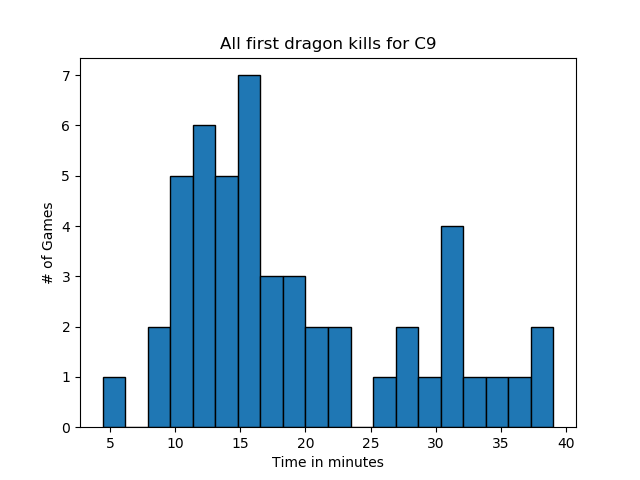
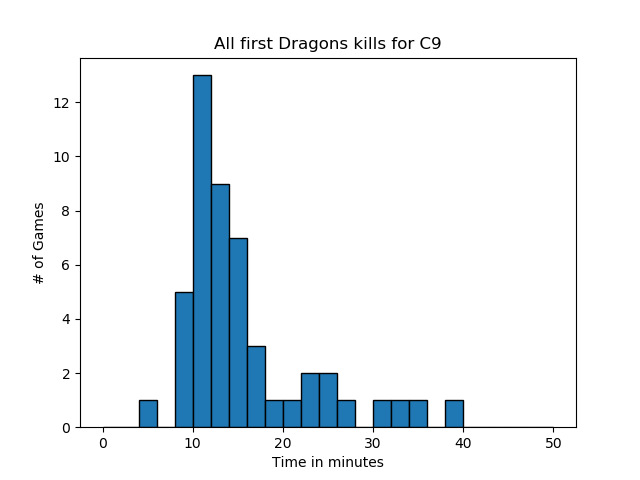
First analysis

diff --git a/league_team_strats.py b/league_team_strats.py
@@ -10,22 +10,44 @@ import matplotlib.pyplot as plt
 import sortData
 import ast
 
-def firstDragon(indexValues, team, teamName):
-	first = []
-	timeDragons = []
+def findFirst(objective):
+	x = objective[0][0]
+	for i in objective:
+		if i[0] < x:
+			x = i[0]
+	return x
+
+def firstObjective(indexValues, team, teamName, objectiveName):
+	time = []
+	negTime = []
 	for i in range(0, len(indexValues)):
 		if(team.at[indexValues[i], "blueTeamTag"] == teamName): #Checks whether the team is blue or red
 			color = "b"
+			negColor = "r"
 		else:
 			color = "r"
-		dragon = ast.literal_eval(team.at[indexValues[i], color + "Dragons"]) #Retrieve list of a list of rDragons at indexValues[i], list of rDragons is [time, type]
-		if dragon:
-			first.append(dragon[0])
-			timeDragons.append(dragon[0][0])
-	plt.hist(timeDragons, bins = 20, edgecolor = "black")
+			negColor = "b"
+		objective = ast.literal_eval(team.at[indexValues[i], color + objectiveName]) #Retrieve list of a list of rDragons at indexValues[i], list of rDragons is [time, type]
+		negObjective = ast.literal_eval(team.at[indexValues[i], negColor + objectiveName])
+		if objective:
+			if(team.at[indexValues[i], color + "Result"] == 1):
+				time.append(findFirst(objective))
+			else:
+				negTime.append(findFirst(objective))
+			# if negObjective:
+			# 	if(findFirst(objective) < findFirst(negObjective)):
+			# 		time.append(findFirst(objective))
+			# 	else:
+			# 		negTime.append(findFirst(objective))
+			# else:
+			# 	time.append(findFirst(objective))
+
+	plt.hist(time, bins = 25, edgecolor = "black", range = (0, 50), color = "blue")
+	plt.hist(negTime, bins = 25, edgecolor = "black", color = "red", range = (0, 50), alpha = 0.5)
 	plt.xlabel("Time in minutes")
 	plt.ylabel("# of Games")
-	plt.title("All first dragon kills for " + teamName)
+	plt.title("All first " + objectiveName + " kills for " + teamName + " compared with wins and losses")
+
 	plt.show()
 
 	# types = seperateTypes(first)
@@ -58,7 +80,7 @@ if __name__ == "__main__":
 	matches = pd.read_csv(".\data\LeagueofLegends.csv")
 	for i in {"C9", "TSM", "IMT"}:
 		team, indexValues = compareTeams(matches, i)
-		firstDragon(indexValues, team, i)
+		firstObjective(indexValues, team, i, "Dragons")
 	
 		
 	
